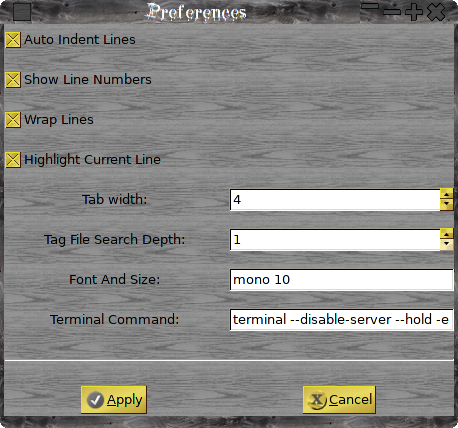
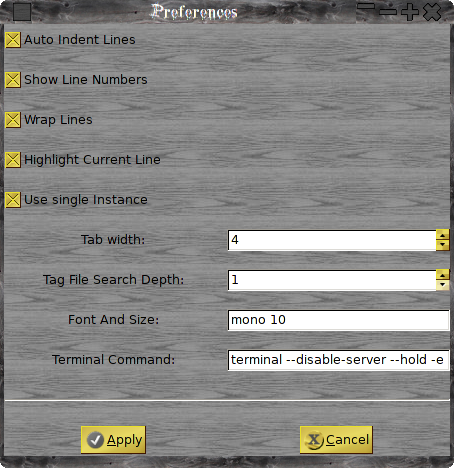
done exit rc
git-svn-id: file:///media/LinuxData/Development/SVN/KKEdit@215 923dfa19-3233-4c9e-86b8-84ae44b222e5

diff --git a/KKEdit/resources/help/help.html b/KKEdit/resources/help/help.html
@@ -168,6 +168,7 @@
 
 
 
+
                             - Currently selected text.</big><br>
                         </big></small></small></small></big>
                 KKEDIT_DATADIR - Directory of global folder ( eg
@@ -194,10 +195,12 @@
 
 
 
+
                             - Filepath of the current document, the same
                             as the $KKEDIT_CURRENTFILE environment
                             variable passed to the command.</big><br>
                         </big></small></small></small></big></big></small></small></small></big><big><small><small><small><big><big><small><small><small><big><big><small><small><small><big><big><big>%d
+
 
 
 
@@ -229,8 +232,8 @@
       <hr size="2" width="100%"><big><small><small><small><big><br>
                 <big><big><a name="prefsanc"></a><u><b>Preferences<br>
                         <br>
-                        <img alt="prefs" src="prefs.png" height="428"
-                          width="458"><small><small><br>
+                        <img alt="prefs" src="prefs.png" height="468"
+                          width="454"><small><small><br>
                             <br>
                           </small></small> </b></u><small><small>The
                         Prefs file is created ~/.KKEdit/kkedit.rc and
@@ -265,9 +268,18 @@
                 <img alt="boomark" src="bookmark.png" height="287"
                   width="762"><br>
                 <br>
+                You can run KKEdit either as a single instance app or as
+                a multiple instance app , set via the prefs menu. Single
+                instances are unique to each workspace.<br>
+                <br>
+                You can open a file as a hexdump like so:<br>
+                <img alt="hexdump" src="hexdump.png" height="288"
+                  width="669"><br>
+                <br>
               </small></small><u><b></b></u></big></big></small><small>
       </small>
       <hr size="2" width="100%"><small><big><big><u><b><a name="getanc"></a>Get
+
 
 
 
@@ -297,6 +309,7 @@
         ctags.<br>
         xdg-utils-1.1.0.<br>
         Autotools.<br>
+        libunique-1.1.6<br>
         <br>
         If you use a source based distro like LFS or Slackware you
         should have all(most) of these installed, if you use a
@@ -332,7 +345,6 @@
             <big><b>7)</b> <strike><small>Save/Restore session</small></strike><strike>.</strike></big></big></small><br>
         <big><b>8)</b></big> Improve this help file.<br>
         <big><b>9)</b> <small>Add printing</small>. :(</big><br>
-        <br>
         <br>
       </small></div>
   </body>

diff --git a/KKEdit/src/callbacks.cpp b/KKEdit/src/callbacks.cpp
@@ -961,29 +961,6 @@ bool tabPopUp(GtkWidget *widget, GdkEventButton *event,gpointer user_data)
 		return(false);
 }
 
-void searchGnome(GtkWidget *widget,gpointer user_data)
-{
-	pageStruct*	page=getPageStructPtr(-1);
-	GtkTextIter	start;
-	GtkTextIter	end;
-	char*		selection=NULL;
-	char*		command;
-
-	if(gtk_text_buffer_get_selection_bounds((GtkTextBuffer*)page->buffer,&start,&end))
-		{
-			selection=gtk_text_buffer_get_text((GtkTextBuffer*)page->buffer,&start,&end,false);
-			if(selection==NULL)
-				return;
-		}
-	else
-		return;
-
-	asprintf(&command,"xdg-open https://developer.gnome.org/symbols/?q=%s",selection);
-	g_spawn_command_line_async(command,NULL);
-	g_free(command);
-
-}
-
 void openAsHexDump(GtkWidget *widget,gpointer user_data)
 {
 	GtkWidget*		dialog;
@@ -1074,6 +1051,30 @@ UniqueResponse messageReceived(UniqueApp *app,UniqueCommand command,UniqueMessag
 	return(res);
 }
 
+void writeExitData(void)
+{
+	GtkAllocation	alloc;
+	FILE*			fd=NULL;
+	char*			filename;
+	int				winx;
+	int				winy;
+
+	gtk_widget_get_allocation(window,&alloc);
+	gtk_window_get_position((GtkWindow*)window,&winx,&winy);
+
+	asprintf(&filename,"%s/.KKEdit",getenv("HOME"));
+	g_mkdir_with_parents(filename,493);
+	g_free(filename);
+	asprintf(&filename,"%s/.KKEdit/kkedit.window.rc",getenv("HOME"));
+	fd=fopen(filename,"w");
+	if(fd!=NULL)
+		{
+			fprintf(fd,"windowsize	%i %i %i %i\n",alloc.width,alloc.height,winx,winy);
+			fclose(fd);
+		}
+	g_free(filename);
+}
+
 void writeConfig(void)
 {
 	GtkAllocation	alloc;
@@ -1104,7 +1105,7 @@ void writeConfig(void)
 			fprintf(fd,"depth	%i\n",depth);
 			fprintf(fd,"font	%s\n",fontAndSize);
 			fprintf(fd,"terminalcommand	%s\n",terminalCommand);
-			fprintf(fd,"windowsize	%i %i %i %i\n",alloc.width,alloc.height,winx,winy);
+//			fprintf(fd,"windowsize	%i %i %i %i\n",alloc.width,alloc.height,winx,winy);
 			fclose(fd);
 		}
 	g_free(filename);
@@ -1136,7 +1137,7 @@ void shutdown(GtkWidget* widget,gpointer data)
 						}
 				}
 		}
-	writeConfig();
+	writeExitData();
 	gtk_main_quit();
 }
 

diff --git a/KKEdit/src/callbacks.h b/KKEdit/src/callbacks.h
@@ -45,12 +45,12 @@ void jumpToLineFromBar(GtkWidget* widget,gpointer data);
 void populatePopupMenu(GtkTextView *entry,GtkMenu *menu,gpointer user_data);
 void tabPopUp(GtkWidget *my_widget, GdkEventButton *event,gpointer user_data);
 void functionSearch(GtkWidget* widget,gpointer data);
-void searchGnome(GtkWidget *widget,gpointer user_data);
 void openAsHexDump(GtkWidget *widget,gpointer user_data);
 UniqueResponse messageReceived(UniqueApp *app,UniqueCommand command,UniqueMessageData *message,guint time,gpointer user_data);
 void shutdown(GtkWidget* widget,gpointer data);
 void setPrefs(GtkWidget* widget,gpointer data);
 void setToolOptions(GtkWidget* widget,gpointer data);
 void doAbout(GtkWidget* widget,gpointer data);
+void writeExitData(void);
 
 #endif

diff --git a/KKEdit/src/guis.cpp b/KKEdit/src/guis.cpp
@@ -574,12 +574,6 @@ void buildMainGui(void)
 	gtk_image_menu_item_set_image((GtkImageMenuItem *)menuitem,image);
 	gtk_menu_shell_append(GTK_MENU_SHELL(menu),menuitem);
 	gtk_signal_connect(GTK_OBJECT(menuitem),"activate",G_CALLBACK(functionSearch),NULL);
-//search web
-	menuitem=gtk_image_menu_item_new_with_label("Search https://developer.gnome.org");
-	image=gtk_image_new_from_stock(GTK_STOCK_FIND,GTK_ICON_SIZE_MENU);
-	gtk_image_menu_item_set_image((GtkImageMenuItem *)menuitem,image);
-	gtk_menu_shell_append(GTK_MENU_SHELL(menu),menuitem);
-	gtk_signal_connect(GTK_OBJECT(menuitem),"activate",G_CALLBACK(searchGnome),NULL);
 
 //function menu
 	menufunc=gtk_menu_item_new_with_label("Functions");

diff --git a/KKEdit/src/main.cpp b/KKEdit/src/main.cpp
@@ -71,12 +71,26 @@ void readConfig(void)
 							sscanf(buffer,"%*s %"VALIDCHARS"s",(char*)&strarg);
 							asprintf(&terminalCommand,"%s",strarg);
 						}
+				}
+			fclose(fd);
+		}
+
+	g_free(filename);
+	asprintf(&filename,"%s/.KKEdit/kkedit.window.rc",getenv("HOME"));
+	fd=fopen(filename,"r");
+	if(fd!=NULL)
+		{
+			while(feof(fd)==0)
+				{
+					fgets(buffer,1024,fd);
+					sscanf(buffer,"%s %s",(char*)&name,(char*)&strarg);
 
 					if(strcasecmp(name,"windowsize")==0)
 						sscanf(buffer,"%*s %i %i %i %i",(int*)&windowWidth,(int*)&windowHeight,(int*)&windowX,(int*)&windowY);
 				}
 			fclose(fd);
 		}
+	g_free(filename);
 }
 
 void init(void)
